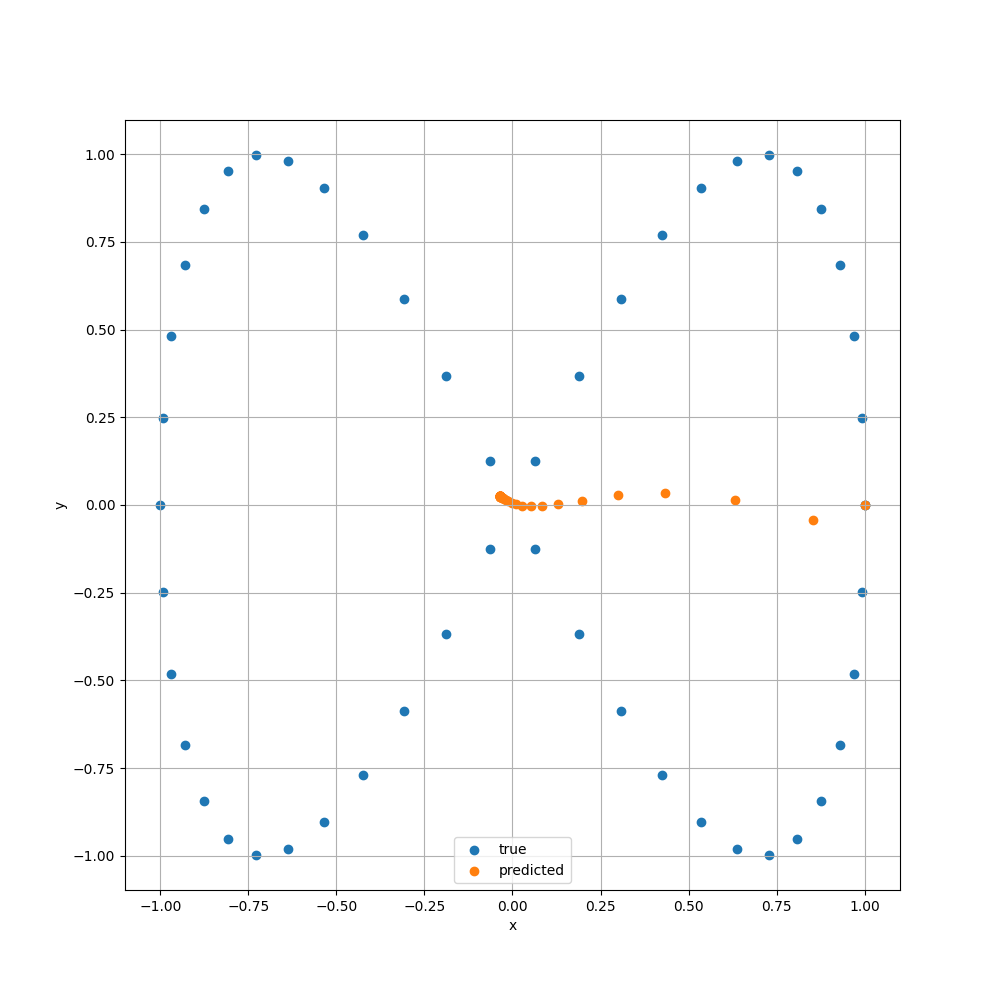
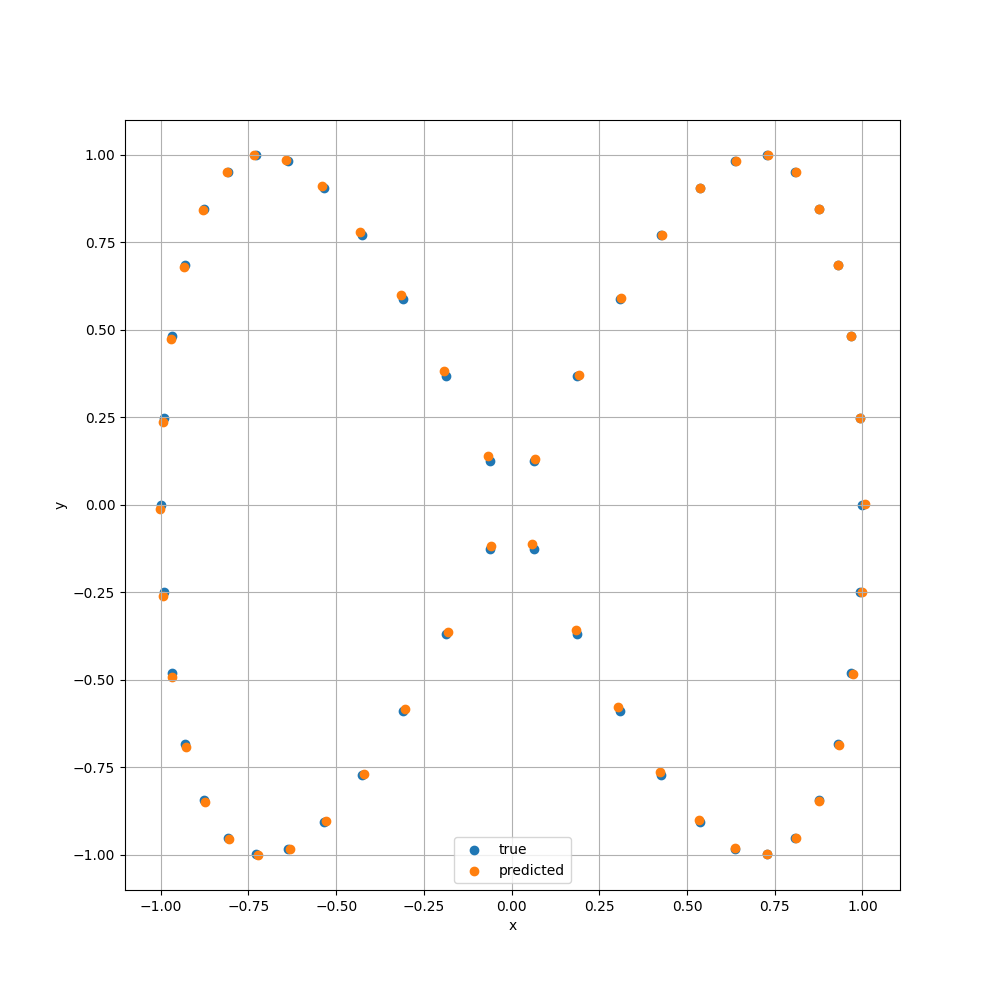
training data fixed

diff --git a/pytorch_pr5_1.py b/pytorch_pr5_1.py
@@ -31,13 +31,13 @@ T = 50
 thetalist = torch.linspace(0, 2 * torch.pi, T + 1)
 lissajousdata = []
 
-for theta in range(T + 1):
+for theta in range(T):
     x = torch.sin(thetalist[theta] + torch.pi / 2)
     y = torch.sin(2 * thetalist[theta])
     lissajousdata.append([x, y])
 
 lissajousdata = torch.tensor(lissajousdata)
-lissajoustargets = torch.roll(lissajousdata, shifts=2)
+lissajoustargets = torch.roll(lissajousdata, shifts=-2)
 lissajousdata = lissajousdata.unsqueeze(0)
 lissajoustargets = lissajoustargets.unsqueeze(0)
     
@@ -57,11 +57,13 @@ class RNNModel(nn.Module):
         self.hidden_size = hidden_size
         self.output_size = output_size
         self.rnncell = nn.RNNCell(input_size, hidden_size)
-        self.fc = nn.Linear(hidden_size, output_size)
+        self.fc1 = nn.Linear(hidden_size, hidden_size)
+        self.fc2 = nn.Linear(hidden_size, output_size)
          
     def forward(self, x, hidden):
         hidden = self.rnncell(x, hidden)
-        output = self.fc(hidden)
+        hidden = self.fc1(hidden)
+        output = self.fc2(hidden)
         output = output.view(-1, 2)
         return output, hidden
 
@@ -73,8 +75,8 @@ def train(epochs, model, criterion, optimizer):
         running_loss = 0.
         for x_train, y_train in train_loader:
             for timestep in range(x_train.shape[1]):
-                traindata = (x_train[0, timestep] / 2).to(device)
-                targetdata = (y_train[0, timestep] / 2).to(device)
+                traindata = x_train[0, timestep].to(device)
+                targetdata = y_train[0, timestep].to(device)
                 targetdata = targetdata.view(-1, 2)
                 
                 output, hidden = model(traindata, hidden)
@@ -101,9 +103,9 @@ def test(model):
         for x_test, y_test in train_loader:
             for timestep in range(x_test.shape[1]):
                 if timestep == 0:
-                    input_co = (x_test[0, 0] / 2).to(device)
+                    input_co = x_test[0, 0].to(device)
                 else:
-                    input_co = (predicted_co / 2).to(device)
+                    input_co = predicted_co.to(device)
                 
                 predicted_co, hidden = model(input_co, hidden)
                 predicted_co = predicted_co[0]
@@ -131,7 +133,6 @@ output = train(num_epochs, model, criterion, optimizer)
 
 outputdata = test(model)
 
-outputdata = 2 * outputdata
 outputdata = np.array([arr for arr in outputdata])
 
 

diff --git a/pytorch_pr3.py b/pytorch_pr3.py
@@ -37,7 +37,7 @@ for theta in range(T):
     circledata.append([x, y])
 
 circledata = torch.tensor(circledata)
-circletargets = torch.roll(circledata, shifts=2)
+circletargets = torch.roll(circledata, -2)
 circledata = circledata.unsqueeze(0)
 circletargets = circletargets.unsqueeze(0)
     
@@ -58,10 +58,11 @@ class RNNModel(nn.Module):
         self.hidden_size = hidden_size
         self.output_size = output_size
         self.rnncell = nn.RNNCell(input_size, hidden_size)
+        self.fc = nn.Linear(hidden_size, output_size)
          
     def forward(self, x, hidden):
         hidden = self.rnncell(x, hidden)
-        output = torch.atanh(hidden)
+        output = self.fc(hidden)
         output = output.view(-1, 2)
         return output, hidden
 
@@ -115,7 +116,7 @@ def test(model):
 
 # Define hyperparameters
 input_size = 2  # Input size
-hidden_size = 2  # Hidden layer size
+hidden_size = 32  # Hidden layer size
 output_size = 2  # Output size
 learning_rate = 0.001  # Learning rate
 num_epochs = 30000  # Number of epochs
